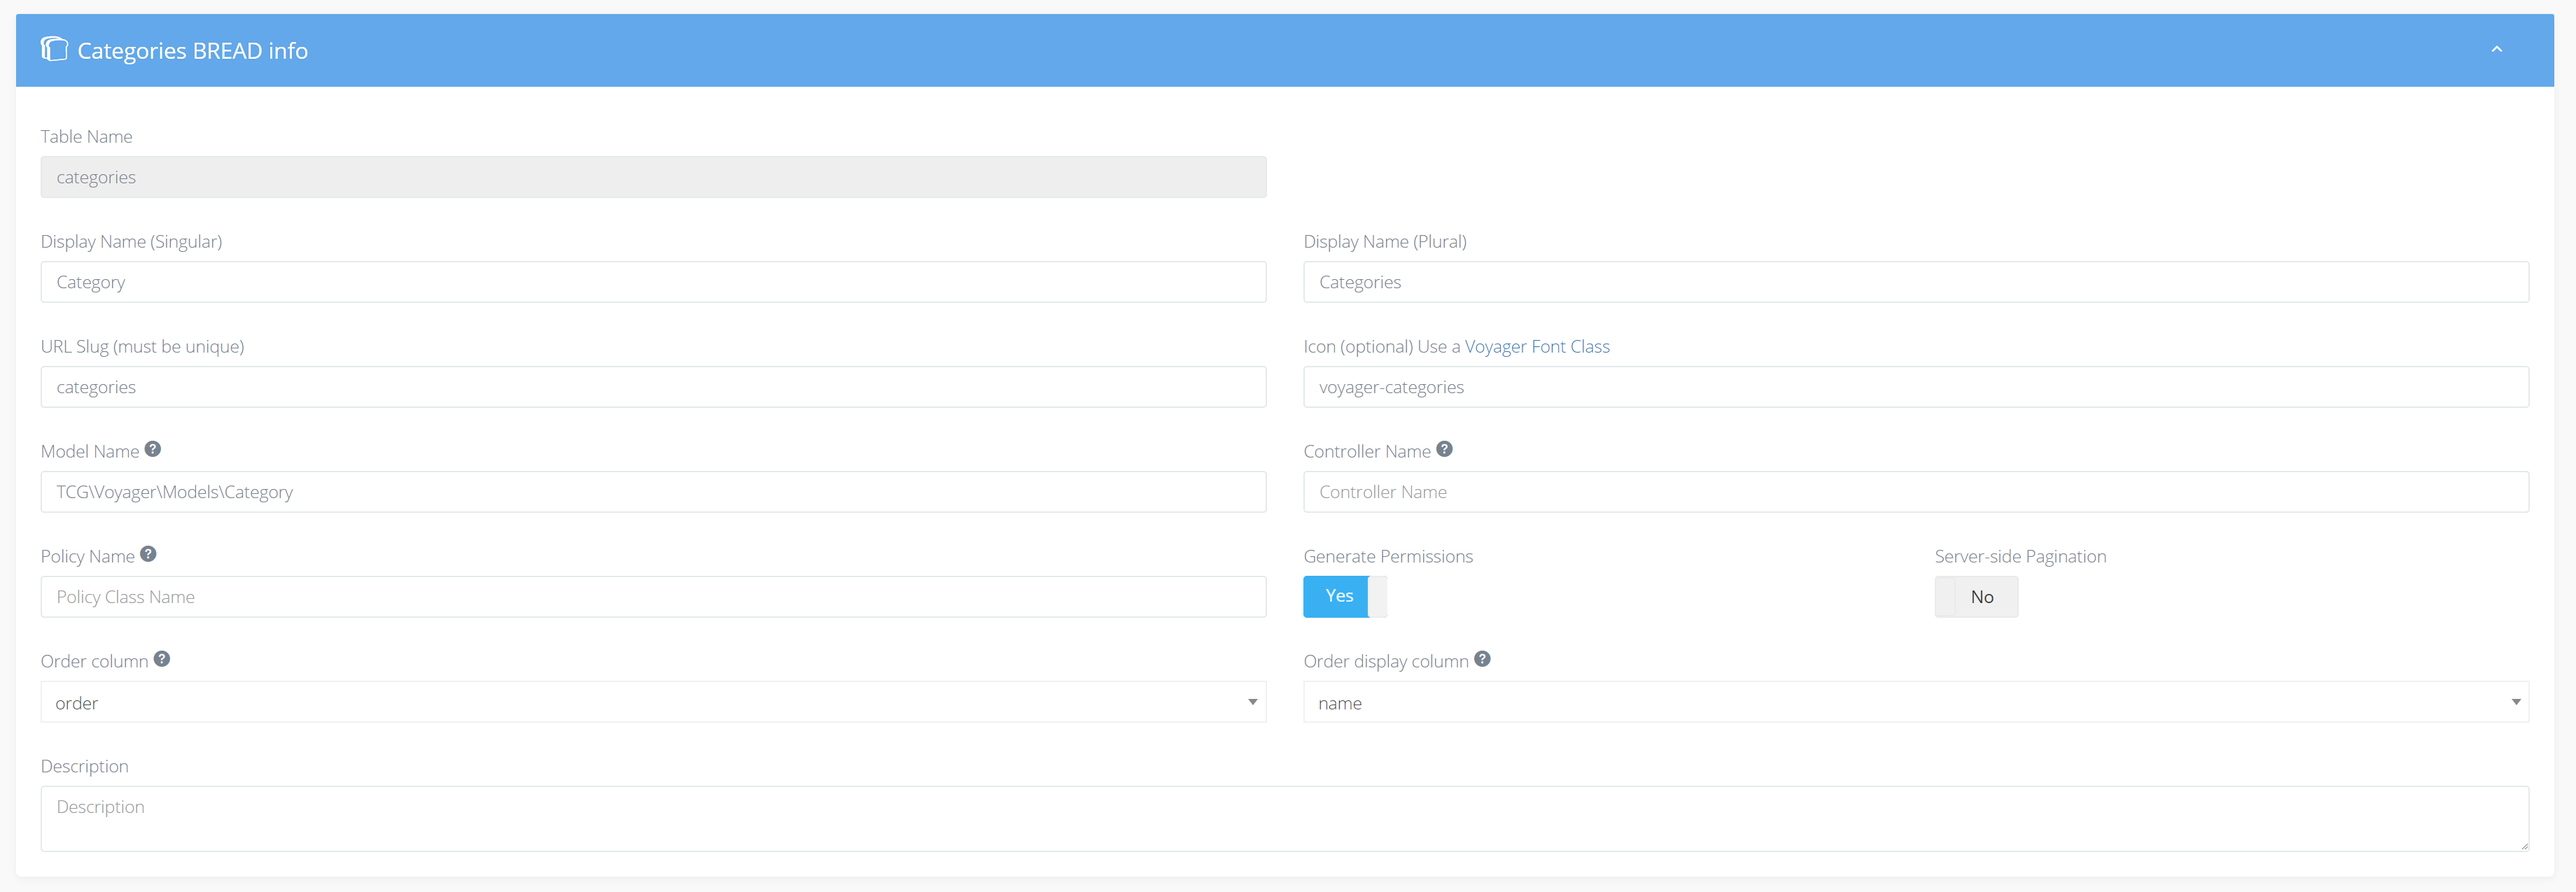
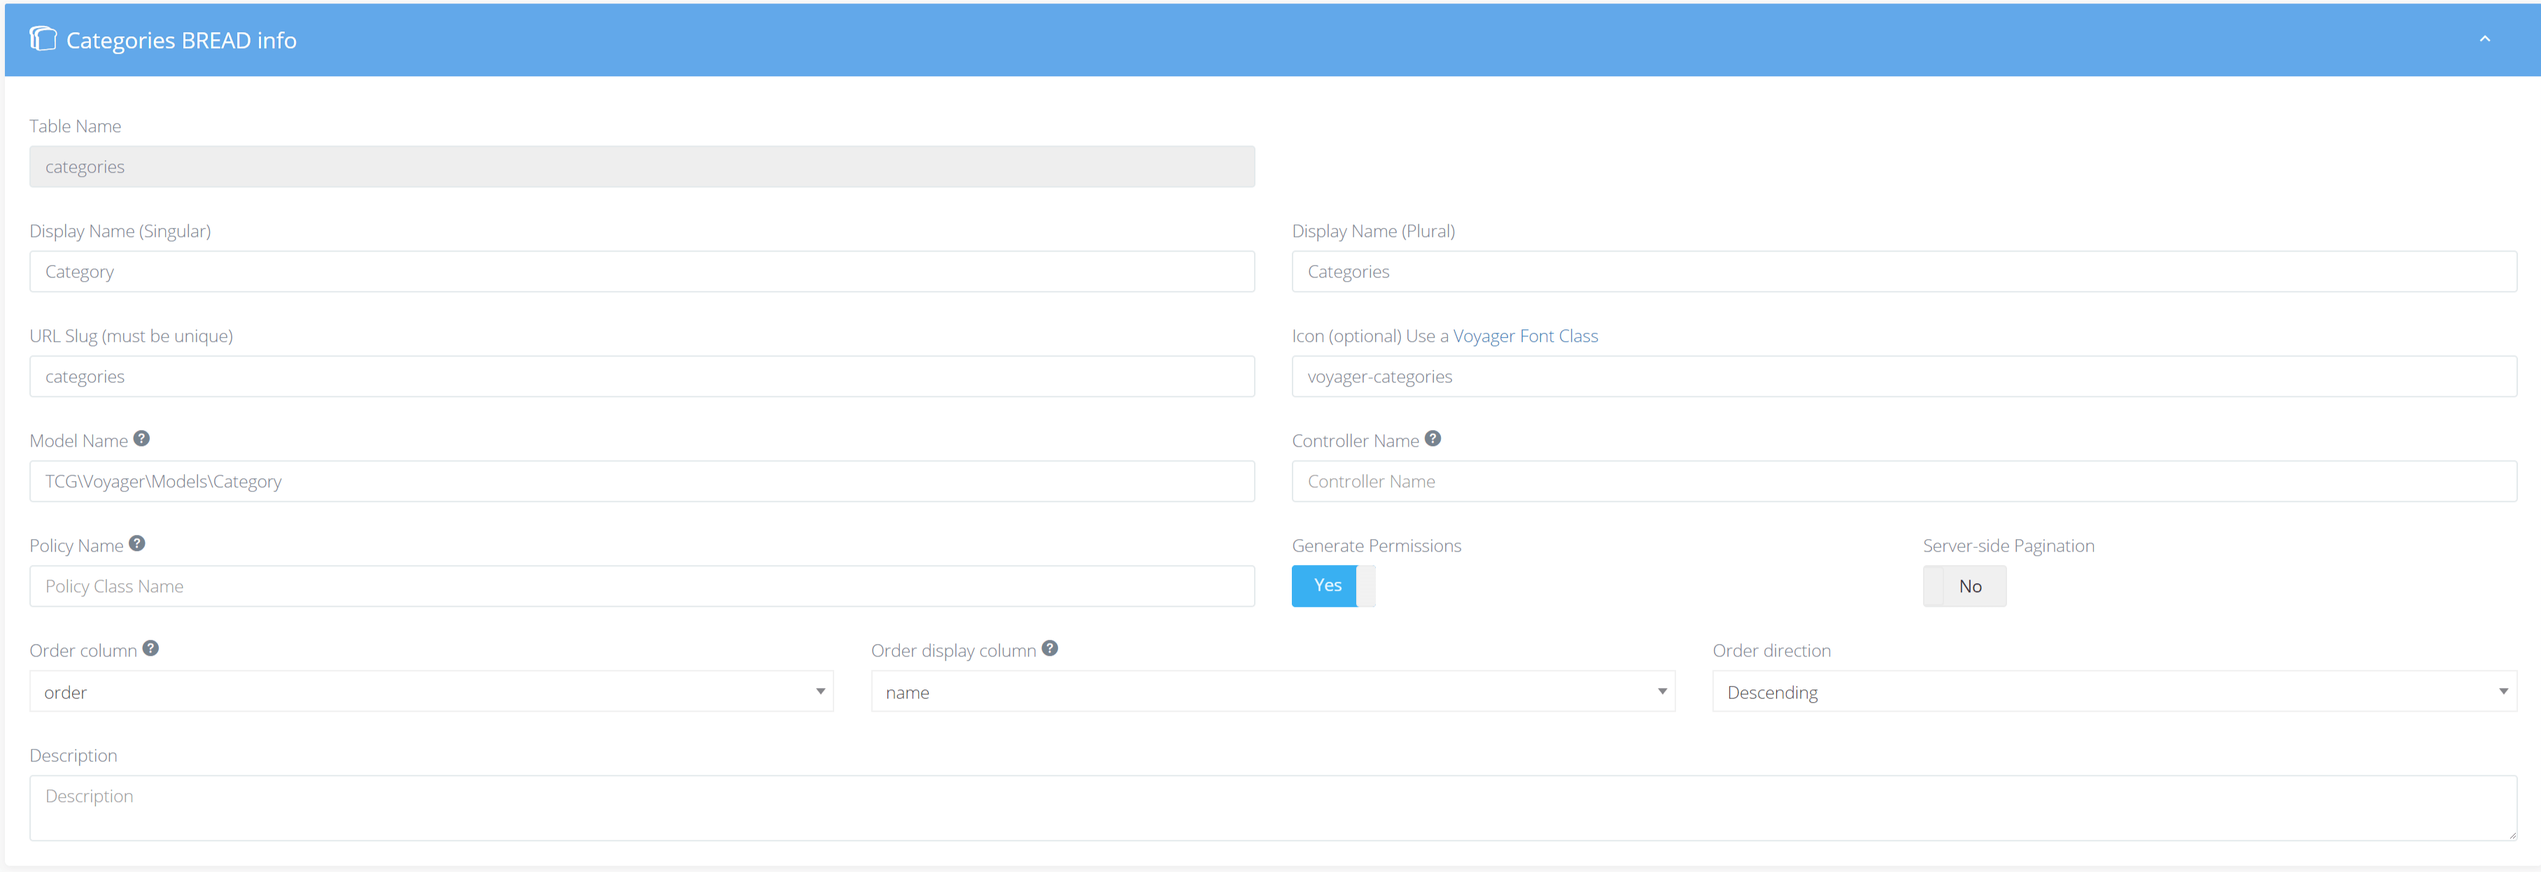
Set default ordering for BREAD (#3781)
* Set default ordering for BREAD

Control the default ordering for bread-browse by selecting an order-column and direction in bread-settings.

Fixes https://github.com/the-control-group/voyager/issues/3222

* Correct alphabetical order in language-file

* StyleCI fix

* StyleCI fix #2

* All directions lower-case, correct URLs for server-side pagination

* Also use direction for ordering

* Add documentation

* Add (proper) german translations

diff --git a/resources/views/tools/bread/edit-add.blade.php b/resources/views/tools/bread/edit-add.blade.php
@@ -176,7 +176,7 @@
                                 </div>
                             </div>
                             <div class="row clearfix">
-                                <div class="col-md-6 form-group">
+                                <div class="col-md-4 form-group">
                                     <label for="order_column">{{ __('voyager::bread.order_column') }}</label>
                                     <span class="voyager-question"
                                           aria-hidden="true"
@@ -192,7 +192,7 @@
                                         @endforeach
                                       </select>
                                 </div>
-                                <div class="col-md-6 form-group">
+                                <div class="col-md-4 form-group">
                                     <label for="order_display_column">{{ __('voyager::bread.order_ident_column') }}</label>
                                     <span class="voyager-question"
                                           aria-hidden="true"
@@ -206,6 +206,17 @@
                                         @if(isset($dataType) && $dataType->order_display_column == $tbl['field']) selected @endif
                                         >{{ $tbl['field'] }}</option>
                                         @endforeach
+                                    </select>
+                                </div>
+                                <div class="col-md-4 form-group">
+                                    <label for="order_direction">{{ __('voyager::bread.order_direction') }}</label>
+                                    <select name="order_direction" class="select2 form-control">
+                                        <option value="asc" @if(isset($dataType) && $dataType->order_direction == 'asc') selected @endif>
+                                            {{ __('voyager::generic.ascending') }}
+                                        </option>
+                                        <option value="desc" @if(isset($dataType) && $dataType->order_direction == 'desc') selected @endif>
+                                            {{ __('voyager::generic.descending') }}
+                                        </option>
                                     </select>
                                 </div>
                             </div>

diff --git a/resources/views/bread/browse.blade.php b/resources/views/bread/browse.blade.php
@@ -68,12 +68,12 @@
                                         @foreach($dataType->browseRows as $row)
                                         <th>
                                             @if ($isServerSide)
-                                                <a href="{{ $row->sortByUrl() }}">
+                                                <a href="{{ $row->sortByUrl($orderBy, $sortOrder) }}">
                                             @endif
                                             {{ $row->display_name }}
                                             @if ($isServerSide)
-                                                @if ($row->isCurrentSortField())
-                                                    @if (!isset($_GET['sort_order']) || $_GET['sort_order'] == 'asc')
+                                                @if ($row->isCurrentSortField($orderBy))
+                                                    @if ($sortOrder == 'asc')
                                                         <i class="voyager-angle-up pull-right"></i>
                                                     @else
                                                         <i class="voyager-angle-down pull-right"></i>
@@ -95,7 +95,7 @@
                                             </td>
                                         @endcan
                                         @foreach($dataType->browseRows as $row)
-                                            
+
                                             <td>
                                                 @if($row->type == 'image')
                                                     <img src="@if( !filter_var($data->{$row->field}, FILTER_VALIDATE_URL)){{ Voyager::image( $data->{$row->field} ) }}@else{{ $data->{$row->field} }}@endif" style="width:100px">
@@ -259,7 +259,7 @@
             @if (!$dataType->server_side)
                 var table = $('#dataTable').DataTable({!! json_encode(
                     array_merge([
-                        "order" => [],
+                        "order" => $orderColumn,
                         "language" => __('voyager::datatable'),
                         "columnDefs" => [['targets' => -1, 'searchable' =>  false, 'orderable' => false]],
                     ],

diff --git a/src/Http/Controllers/VoyagerBaseController.php b/src/Http/Controllers/VoyagerBaseController.php
@@ -43,8 +43,19 @@ class VoyagerBaseController extends Controller
 
         $search = (object) ['value' => $request->get('s'), 'key' => $request->get('key'), 'filter' => $request->get('filter')];
         $searchable = $dataType->server_side ? array_keys(SchemaManager::describeTable(app($dataType->model_name)->getTable())->toArray()) : '';
-        $orderBy = $request->get('order_by');
+        $orderBy = $request->get('order_by', $dataType->order_column);
         $sortOrder = $request->get('sort_order', null);
+        $orderColumn = [];
+        if ($orderBy) {
+            $index = $dataType->browseRows->where('field', $orderBy)->keys()->first() + 1;
+            $orderColumn = [[$index, 'desc']];
+            if (!$sortOrder && isset($dataType->order_direction)) {
+                $sortOrder = $dataType->order_direction;
+                $orderColumn = [[$index, $dataType->order_direction]];
+            } else {
+                $orderColumn = [[$index, 'desc']];
+            }
+        }
 
         // Next Get or Paginate the actual content from the MODEL that corresponds to the slug DataType
         if (strlen($dataType->model_name) != 0) {
@@ -63,7 +74,7 @@ class VoyagerBaseController extends Controller
             }
 
             if ($orderBy && in_array($orderBy, $dataType->fields())) {
-                $querySortOrder = (!empty($sortOrder)) ? $sortOrder : 'DESC';
+                $querySortOrder = (!empty($sortOrder)) ? $sortOrder : 'desc';
                 $dataTypeContent = call_user_func([
                     $query->orderBy($orderBy, $querySortOrder),
                     $getter,
@@ -102,6 +113,7 @@ class VoyagerBaseController extends Controller
             'isModelTranslatable',
             'search',
             'orderBy',
+            'orderColumn',
             'sortOrder',
             'searchable',
             'isServerSide'
@@ -467,7 +479,7 @@ class VoyagerBaseController extends Controller
         }
 
         $model = app($dataType->model_name);
-        $results = $model->orderBy($dataType->order_column)->get();
+        $results = $model->orderBy($dataType->order_column, $dataType->order_direction)->get();
 
         $display_column = $dataType->order_display_column;
 

diff --git a/publishable/lang/de/bread.php b/publishable/lang/de/bread.php
@@ -32,12 +32,13 @@ return [
     'model_class'            => 'Name der Model Klasse',
     'model_name'             => 'Model Name',
     'model_name_ph'          => 'z. B. \App\User, falls leer gelassen wird versucht den Namen der Tabelle zu verwenden',
-    'order'                  => 'Reihenfolge',
-    'order_column'           => 'Reihenfolge Spalte',
-    'order_column_ph'        => 'Die Spalte wo die Reihenfolge gespeichert wird',
-    'order_ident_column'     => 'Reihenfolge Anzeige Spalte',
-    'order_ident_column_ph'  => 'Die Spalte die in der Reihenfolge-Seite angezeigt wird',
-    'ordering_not_set'       => 'Sie müssen zuerst die Reihenfolge einstellen',
+    'order'                  => 'Sortieren',
+    'order_column'           => 'Sortierungs-Spalte',
+    'order_column_ph'        => 'Die Spalte wo die Sortierung gespeichert wird',
+    'order_direction'        => 'Sortierungs Reihenfolge',
+    'order_ident_column'     => 'Sortierungs Anzeige Spalte',
+    'order_ident_column_ph'  => 'Die Spalte die in der Sortierungs-Seite angezeigt wird',
+    'ordering_not_set'       => 'Sie müssen zuerst die Sortierung einstellen',
     'policy_class'           => 'Policy Klassenname',
     'policy_name'            => 'Policy Name',
     'policy_name_ph'         => 'Bspw. \App\Policies\UserPolicy, falls leer gelassen wird versucht den Default Wert zu Verwenden.',

diff --git a/src/Models/DataRow.php b/src/Models/DataRow.php
@@ -32,9 +32,9 @@ class DataRow extends Model
      *
      * @return bool True if this is the current filter, false otherwise
      */
-    public function isCurrentSortField()
+    public function isCurrentSortField($orderBy)
     {
-        return isset($_GET['order_by']) && $_GET['order_by'] == $this->field;
+        return $orderBy == $this->field;
     }
 
     /**
@@ -42,11 +42,11 @@ class DataRow extends Model
      *
      * @return string Built URL
      */
-    public function sortByUrl()
+    public function sortByUrl($orderBy, $sortOrder)
     {
-        $params = $_GET;
-        $isDesc = isset($params['sort_order']) && $params['sort_order'] != 'asc';
-        if ($this->isCurrentSortField() && $isDesc) {
+        $params = [];
+        $isDesc = $sortOrder != 'asc';
+        if ($this->isCurrentSortField($orderBy) && $isDesc) {
             $params['sort_order'] = 'asc';
         } else {
             $params['sort_order'] = 'desc';

diff --git a/publishable/lang/de/generic.php b/publishable/lang/de/generic.php
@@ -9,6 +9,7 @@ return [
     'all_done'               => 'Alles erledigt',
     'are_you_sure'           => 'Sind Sie sicher',
     'are_you_sure_delete'    => 'Sind Sie sicher dass Sie löschen möchten',
+    'ascending'              => 'Aufsteigend',
     'auto_increment'         => 'Automatische Werterhöhung',
     'browse'                 => 'Browse',
     'builder'                => 'Builder',
@@ -29,6 +30,7 @@ return [
     'delete_confirm'         => 'Ja, löschen!',
     'delete_question'        => 'Wirklich löschen',
     'delete_this_confirm'    => 'Ja, löschen',
+    'descending'             => 'Absteigend',
     'deselect_all'           => 'Alles abwählen',
     'download'               => 'Herunterladen',
     'drag_drop_info'         => 'Ändern Sie die Reihenfolge der Elemente durch Drag und Drop.',

diff --git a/publishable/lang/en/generic.php b/publishable/lang/en/generic.php
@@ -9,6 +9,7 @@ return [
     'all_done'               => 'All done',
     'are_you_sure'           => 'Are you sure',
     'are_you_sure_delete'    => 'Are you sure you want to delete',
+    'ascending'              => 'Ascending',
     'auto_increment'         => 'Auto Increment',
     'bread'                  => 'BREAD',
     'browse'                 => 'Browse',
@@ -30,6 +31,7 @@ return [
     'delete_confirm'         => 'Yes, Delete it!',
     'delete_question'        => 'Are you sure you want to delete this',
     'delete_this_confirm'    => 'Yes, Delete This',
+    'descending'             => 'Descending',
     'deselect_all'           => 'Deselect All',
     'download'               => 'Download',
     'drag_drop_info'         => 'Drag and drop the Items below to re-arrange them.',

diff --git a/src/Models/DataType.php b/src/Models/DataType.php
@@ -30,6 +30,7 @@ class DataType extends Model
         'server_side',
         'order_column',
         'order_display_column',
+        'order_direction',
         'details',
     ];
 
@@ -260,5 +261,15 @@ class DataType extends Model
     public function setOrderDisplayColumnAttribute($value)
     {
         $this->attributes['details'] = collect($this->details)->merge(['order_display_column' => $value]);
+    }
+
+    public function getOrderDirectionAttribute()
+    {
+        return isset($this->details->order_direction) ? $this->details->order_direction : 'desc';
+    }
+
+    public function setOrderDirectionAttribute($value)
+    {
+        $this->attributes['details'] = collect($this->details)->merge(['order_direction' => $value]);
     }
 }

diff --git a/publishable/lang/en/bread.php b/publishable/lang/en/bread.php
@@ -35,6 +35,7 @@ return [
     'order'                  => 'Order',
     'order_column'           => 'Order column',
     'order_column_ph'        => 'The column where the order is stored',
+    'order_direction'        => 'Order direction',
     'order_ident_column'     => 'Order display column',
     'order_ident_column_ph'  => 'The column which is displayed in the order page',
     'ordering_not_set'       => 'You have to define ordering first',

diff --git a/docs/core-concepts/bread-builder.md b/docs/core-concepts/bread-builder.md
@@ -283,13 +283,14 @@ The **id** will let you specify a custom id wrapper around your element. example
 
 ## Ordering Bread Items
 
-You can order your BREAD items with drag-and-drop.  
+You can define the default order for browsing BREADs and order your BREAD items with drag-and-drop.  
 For this you need to change the settings for your BREAD first:
 
 ![](../.gitbook/assets/bread_settings_order.png)
 
 **Order column** is the field in your table where the order is stored as an integer.  
-**Order display column** is the field which is shown in the drag-drop list.
+**Order display column** is the field which is shown in the drag-drop list.  
+**Order direction** the direction in which the field is ordered.
 
 After this you can go to your BREAD-browse page and you will see a button **Order.**  
 Clicking this button will bring you to the page where you can re-arrange your items:
